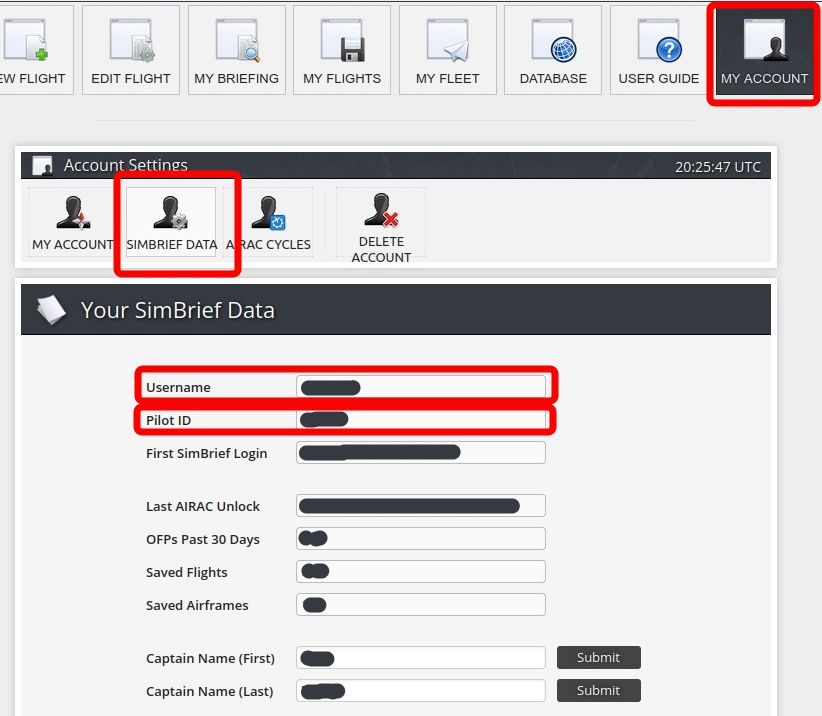
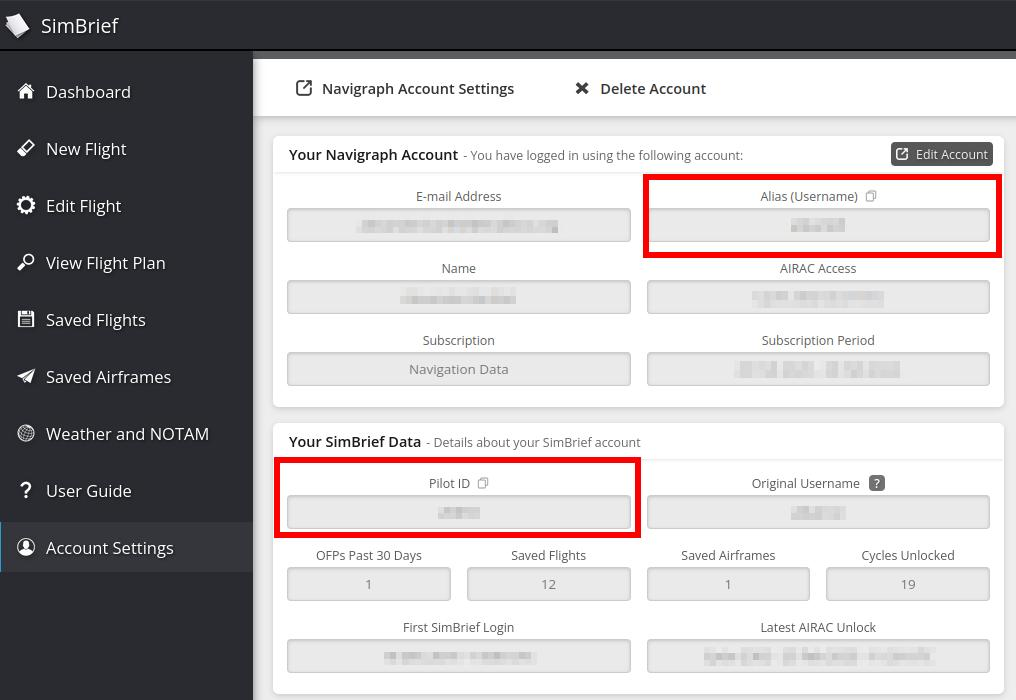
Updated for 2.8.9
Adapted to SimBrief UI changes.
Added note about cold temperature altitude correction.
Added includes.

diff --git a/src/en/LOADSIMBRIEF.rst b/src/en/LOADSIMBRIEF.rst
@@ -12,10 +12,10 @@ Download a Flight Plan
 ~~~~~~~~~~~~~~~~~~~~~~~~~~~~~~~~~~~~~~~~~~~~~~~
 
 #. Open a web browser by clicking the blue `SimBrief <https://www.simbrief.com>`__ link in the dialog header and login.
-#. Start with either ``CREATE NEW FLIGHT``, ``LOAD SAVED FLIGHT``, ``EDIT LAST FLIGHT`` or ``VIEW LAST FLIGHT``.
-#. Once the flight plan is done click ``GENERATE FLIGHT`` in SimBrief.
+#. Start with either ``New Flight``, ``Edit Flight`` or ``Saved Flights`` or ``Load``.
+#. Once the flight plan is done click ``Generate Flight`` in SimBrief.
 #. Go back into *Little Navmap* and select menu ``File`` -> :ref:`open-from-simbrief`.
-#. Enter your SimBrief Pilot ID or username. *Little Navmap* remembers this value.
+#. Enter your SimBrief ``Pilot ID`` or ``Alias (Username)``. Select the type of login in the drop down box at the left of the input field. *Little Navmap* remembers this value.
 #. Click ``Download Flight Plan``.
 #. Click ``Create Flight Plan`` if if the generated flight plan was successfully downloaded.
 
@@ -35,9 +35,8 @@ Note that the flight plan is kept for a while on SimBrief. You do not have to lo
 How to get the Login Information
 ~~~~~~~~~~~~~~~~~~~~~~~~~~~~~~~~~~~~~~~~~~~~~~~
 
-#. Go to ``MY ACCOUNT`` in SimBrief. You'll see the page ``Your Navigraph Account``.
-#. Now click ``SIMBRIEF DATA`` to get to the page ``Your SimBrief Data``.
-#. There your can see your ``Username`` and your ``Pilot ID``.
+#. Go to ``Account Settings`` in SimBrief.
+#. There your can see ``Alias (Username)`` and your ``Pilot ID``.
 
 .. figure:: ../images/simbrief_user.jpg
    :scale: 70 %

diff --git a/src/en/include/ALTCORRECTION.rst b/src/en/include/ALTCORRECTION.rst
@@ -1,0 +1,16 @@
+.. note::
+
+    Keep in mind that actual altitude shown in *Little Navmap* might differ from indicated altitude even with a correct baro setting.
+
+    This is an effect of the outside air temperature (OAT) on actual altitude where low temperatures affect the aircraft altimeter.
+    When temperature is less than ISA conditions an aircraft will be lower than the altimeter reading.
+
+    This effect is currently modeled in X-Plane 12 and MSFS.
+
+    Corrections have to be applied when the aerodrome temperature is 0°C or colder:
+
+    -  DH/DA or MDH/MDA and step-down fixes inside the final approach fix (FAF).
+    -  All low altitude approach procedure altitudes in mountainous regions (terrain of 3000 ft AMSL or higher)
+
+    See `Skybary - Altimeter Temperature Error Correction <https://skybrary.aero/articles/altimeter-temperature-error-correction>`__
+    for more information.

diff --git a/src/en/PROFILE.rst b/src/en/PROFILE.rst
@@ -327,18 +327,7 @@ at the higher flight levels.
 You might see vertical aircraft movement of the aircraft symbol and jumps in the trail when adjusting
 barometric pressure in the simulator altimeter.
 
-.. note::
-
-    Note that the profile display depends on the correct sequencing of the
-    active flight plan leg (magenta line). The aircraft will be displayed in
-    the wrong position and the aircraft trail will be erratic if the active
-    leg is not correct or manually changed.
-
-    The aircraft trail will be displayed incorrectly in the elevation
-    profile if the flight plan is changed (i.e. the flight plan length or
-    geometry changes). You can delete the profile aircraft trail in
-    context menu :ref:`delete-aircraft-trail` while keeping the trail on
-    the map.
+.. include:: include/ALTCORRECTION.rst
 
 .. figure:: ../images/profile.jpg
 

diff --git a/src/en/ROUTEEXPORTALL.rst b/src/en/ROUTEEXPORTALL.rst
@@ -86,15 +86,7 @@ The following happens if LNMPLN is saved with multiexport:
 
 See also :ref:`flight-plan-formats-lnmpln`.
 
-.. note::
-
-   Always save a copy in the default LNMPLN format before exporting to other
-   formats. This allows *Little Navmap* to restore all flight plan
-   properties like procedures, alternate airports and remarks.
-
-   Note that the LNMPLN format is only understood by *Little Navmap*.
-   Do not try to load it into simulators or add-ons.
-
+.. include:: include/LNMPLNWARN.rst
 
 .. _multiexport-errors:
 

diff --git a/src/en/FLIGHTPLANFMT.rst b/src/en/FLIGHTPLANFMT.rst
@@ -31,11 +31,7 @@ See also :doc:`ROUTEEXPORTALL` for more information on multiexport.
 
 See :ref:`lnmpln-file-format` for a detailed description of the format.
 
-.. warning::
-
-   Always save a copy in the default LNMPLN format before exporting to other
-   formats like FMS. This allows *Little Navmap* to restore all flight plan
-   properties like procedures, alternate airports and remarks.
+.. include:: include/LNMPLNWARN.rst
 
 .. _flight-plan-formats-user-waypoints:
 

diff --git a/src/en/include/LNMPLNWARN.rst b/src/en/include/LNMPLNWARN.rst
@@ -1,0 +1,9 @@
+.. warning::
+
+   Always save a copy in the default LNMPLN format before exporting to other
+   formats. This allows *Little Navmap* to restore all flight plan
+   properties like procedures, alternate airports and remarks.
+
+   Note that the LNMPLN format is only understood by *Little Navmap*.
+   Do not try to load it into simulators or add-ons.
+

diff --git a/src/en/INFO.rst b/src/en/INFO.rst
@@ -361,6 +361,8 @@ Some rows like ``Ice`` are hidden if the condition is not met.
      destination in the early flight phases. This is normal since fuel flow
      is higher for takeoff and early climb.
 
+.. include:: include/ALTCORRECTION.rst
+
 .. figure:: ../images/infoacprogress.jpg
     :scale: 70%
 
